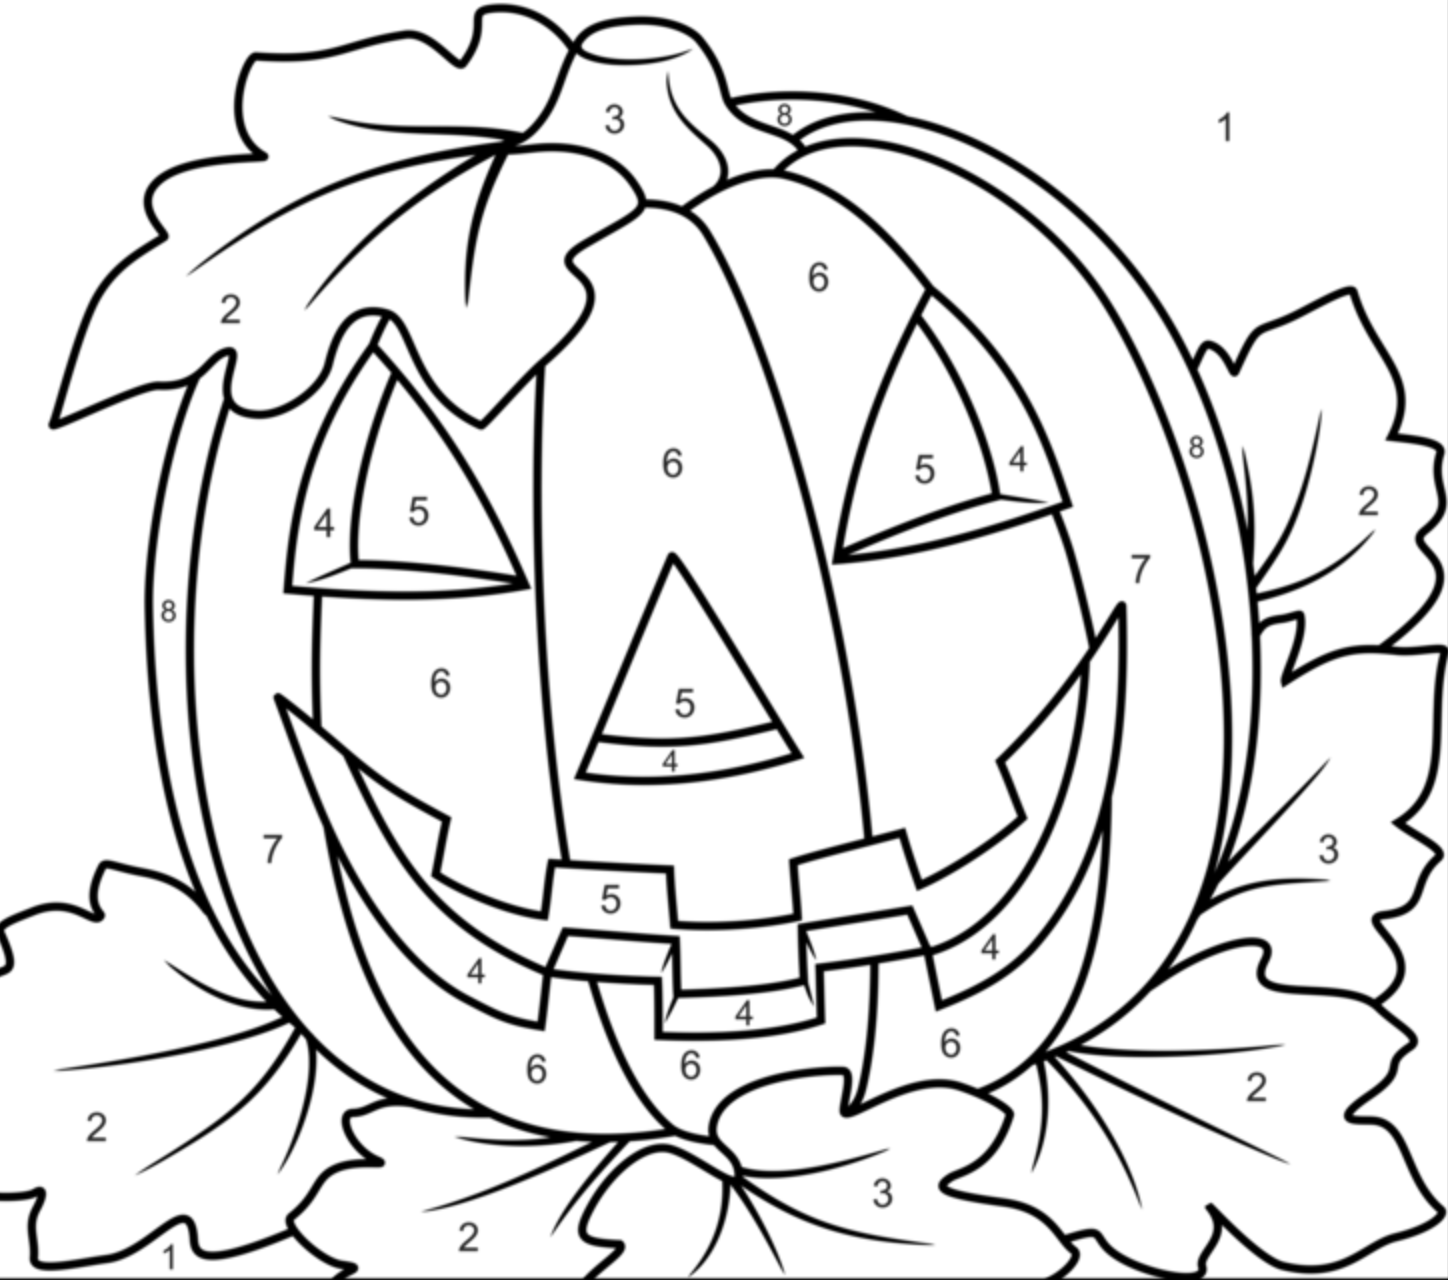
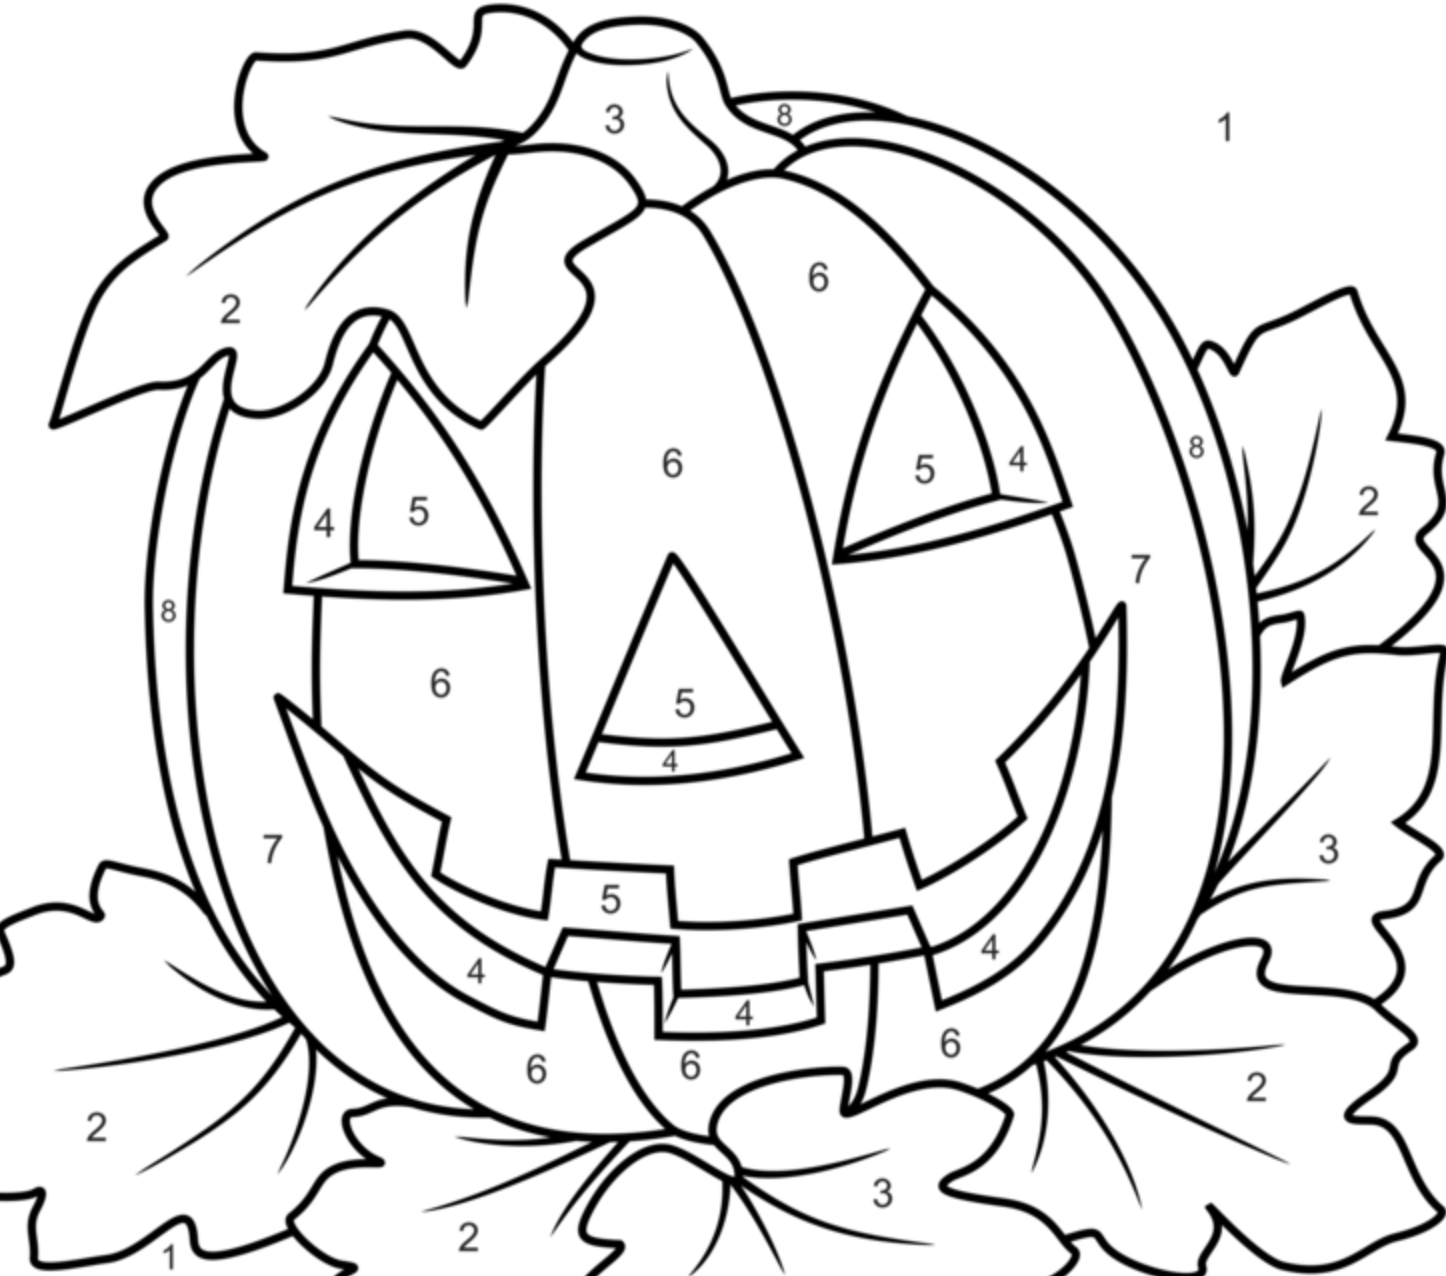
changed main game image and added css border line

diff --git a/style.css b/style.css
@@ -35,12 +35,12 @@ h1{
 }
 .home img{
     display: block;
-    margin: 0 auto;
+    margin: 2px;
     justify-content: center; /* Horizontal centering */
     align-items: center; /* Vertical centering */
     height: 60vh;
-    padding: 20px;
     border-radius: 10px;
+    border: 3px solid #000000;
 }
 .button_menu{
     width: 300px;

diff --git a/index.html b/index.html
@@ -25,7 +25,7 @@
 
         <!--HomeGame-->
         <div class="home">
-            <img src="images/image.jpg" alt="My Image">
+            <img src="images/0.png" alt="My Image">
         </div>
 
         <!--ButtonMenu-->
